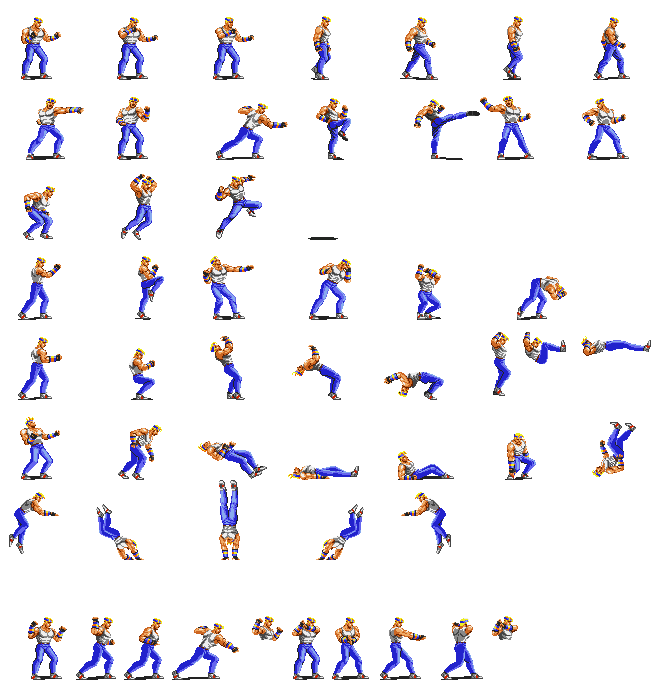
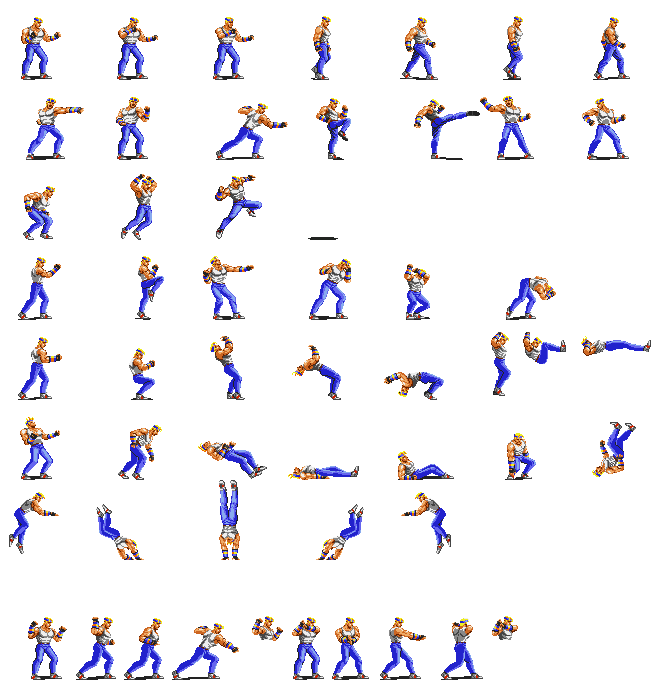
Front throw animation synced and working properly

Changed region(s): [[0.75, 0.3945, 0.8438, 0.4855], [0.5938, 0.3642, 0.6562, 0.4855]]

diff --git a/Entity.cpp b/Entity.cpp
@@ -105,7 +105,6 @@ void Entity::UpdateCurrentAnimation(Animation *new_anim, int block_anim_duration
 		if (current_animation == &jump ||
 			current_animation == &jump_attack ||
 			current_animation == &being_thrown_front ||
-			//current_animation == &being_thrown_back ||
 			current_animation == &being_knocked ||
 			current_animation == &holding_swap)
 			grounded = false;
@@ -166,10 +165,8 @@ void Entity::UpdateCurrentAnimation(Animation *new_anim, int block_anim_duration
 			is_being_hold_front = false;
 
 		// being thrown status 
-		if (current_animation == &being_thrown_back)
-			is_being_thrown_back = true;
-		else
-			is_being_thrown_back = false;
+		is_being_thrown_back = current_animation == &being_thrown_back;
+		is_being_thrown_front = current_animation == &being_thrown_front;
 	}
 }
 
@@ -195,30 +192,47 @@ iPoint Entity::UpdateKnockedMotion()
 
 iPoint Entity::UpdateThrownFrontMotion()
 {
-	return{ 0,0 };
-}
-iPoint Entity::UpdateThrownBackMotion() {
-	
-	int divisor = being_thrown_duration / 7;
-	int frames_left = blocking_animation_remaining_msec / divisor;
 	iPoint ret = { 0,0 };
+	int divisor = being_thrown_duration / 8;
+	int frames_left = air_remaining_msec / divisor;
 
 	int mod = facing_right ? 1 : -1;
 
+	being_thrown_front.SetCurrentFrame(7 - frames_left);
+	
 	switch (frames_left)
 	{
-	case 6: SetPosition({ pivot.x + mod * 16, pivot.y }); being_thrown_back.SetCurrentFrame(0); break;
-	case 5: SetPosition({ pivot.x + mod * 8, pivot.y - 30 });  being_thrown_back.SetCurrentFrame(1); break;
-	case 4: SetPosition({ pivot.x - mod * 16, pivot.y - 26 });  being_thrown_back.SetCurrentFrame(2); break;
-	case 3: SetPosition({ pivot.x - mod * 30, pivot.y });  being_thrown_back.SetCurrentFrame(2); break;
-	case 2: SetPosition({ pivot.x - mod*30, pivot.y});  being_thrown_back.SetCurrentFrame(2); break;
-		
-	case 1: SetPosition({ pivot.x - mod *34, pivot.y -3 });  being_thrown_back.SetCurrentFrame(2); break;
-	case 0: SetPosition({ pivot.x - mod *38, pivot.y });  being_thrown_back.SetCurrentFrame(3); break;
+	case 7: SetPosition({ pivot.x - mod * 14, pivot.y });   break;
+	case 6: SetPosition({ pivot.x + mod * 34, pivot.y - 30 });  break;
+	case 5: ret.x += mod * 5; ret.y = -1;     break;
+	case 4:  ret.x += mod * 4; ret.y += 0;   break;
+	case 3:  ret.x += mod * 4; ret.y += 1; break;
+	case 2:  ret.x += mod * 3; ret.y += 2;  break;
+	case 1:  ret.x += mod * 3; ret.y += 3;  break;
+	case 0:  ret.x += mod * 2; ret.y += 3;  break;
 	}
-	return ret;
 
 	return ret;
+}
+void Entity::UpdateThrownBackMotion() {
+	
+	int divisor = being_thrown_duration / 8;
+	int frames_left = blocking_animation_remaining_msec / divisor;
+
+	int mod = facing_right ? 1 : -1;
+	
+	being_thrown_back.SetCurrentFrame(7 - frames_left);
+	switch (frames_left)
+	{
+	case 7: SetPosition({ pivot.x + mod * 16, pivot.y }); break;
+	case 6: SetPosition({ pivot.x + mod * 8, pivot.y - 30 });   break;
+	case 5: SetPosition({ pivot.x - mod * 0, pivot.y - 22 });  break;	
+	case 4: SetPosition({ pivot.x - mod * 30, pivot.y });   break;
+	case 3: grounded = false; SetPosition({ pivot.x - mod * 40, pivot.y - 3 });  break;
+	case 2: SetPosition({ pivot.x - mod * 50, pivot.y -5});   break;
+	case 1: SetPosition({ pivot.x - mod * 55, pivot.y - 3 }); break;
+	case 0: grounded = true; SetPosition({ pivot.x - mod * 60, pivot.y }); break;
+	}
 }
 // ----------------- Depth related ------------------------
 

diff --git a/Player.cpp b/Player.cpp
@@ -91,7 +91,9 @@ bool Player::Update(unsigned int msec_elapsed, const bool upd_logic)
 	}
 	if (current_animation == &throwing_back)
 		UpdateThrowingBackMotion();
-	
+	if (current_animation == &throwing_front)
+		UpdateThrowingFrontMotion();
+
 	// animation transition
 	if (blocking_animation_remaining_msec <= 0)
 	{
@@ -396,12 +398,21 @@ void Player::UpdateHoldingSwapMotion()
 	case 0: SetPosition({ held_entity->position.x + mod * 24 , held_entity->position.y - 6 }); break;
 	}
 }
-void Player::UpdateThrowingBackMotion()
+
+void Player::UpdateThrowingFrontMotion()
 {
-	int divisor = throwing_duration / 5;
+	int divisor = throwing_duration / 4;
 	int frames_left = blocking_animation_remaining_msec / divisor;
 
-	throwing_back.SetCurrentFrame(4 - frames_left);
+	throwing_front.SetCurrentFrame(3 - frames_left);
+}
+
+void Player::UpdateThrowingBackMotion()
+{
+	int divisor = throwing_duration / 4;
+	int frames_left = blocking_animation_remaining_msec / divisor;
+
+	throwing_back.SetCurrentFrame(3 - frames_left);
 }
 
 //--- Input related -------
@@ -435,6 +446,9 @@ void Player::GetInput( bool upd_logic )
 		(App->input->GetKey(SDL_SCANCODE_X) == KEY_REPEAT && App->input->GetKey(SDL_SCANCODE_C) == KEY_DOWN);
 
 	input_attack = App->input->GetKey(SDL_SCANCODE_X) == KEY_DOWN && input_hold_front_throw == false && input_attack_back == false;
+
+	// to be removed
+	input_hold_front_throw = App->input->GetKey(SDL_SCANCODE_A) == KEY_DOWN;
 	
 	
 	
@@ -561,4 +575,6 @@ void Player::CheatCodes() {
 		SetBeingHit(attack1_dmg);
 	if (App->input->GetKey(SDL_SCANCODE_W) == KEY_DOWN)
 		SetBeingKnocked(attack3_dmg);
+	if (App->input->GetKey(SDL_SCANCODE_S) == KEY_DOWN)
+		UpdateCurrentAnimation(&throwing_front, throwing_duration);
 }

diff --git a/EnemyGarcia.cpp b/EnemyGarcia.cpp
@@ -53,11 +53,14 @@ bool EnemyGarcia::Update(unsigned int msec_elapsed, const bool upd_logic)
 	{
 		if (air_remaining_msec > 0)
 		{
-			move_speed = UpdateKnockedMotion();
+			if (is_being_thrown_front)
+				move_speed = UpdateThrownFrontMotion();
+			else
+				move_speed = UpdateKnockedMotion();
 		}
 	}
 	if(is_being_thrown_back)
-		move_speed = UpdateThrownBackMotion();
+		UpdateThrownBackMotion();
 
 	if (blocking_animation_remaining_msec <= 0)
 	{
@@ -70,11 +73,9 @@ bool EnemyGarcia::Update(unsigned int msec_elapsed, const bool upd_logic)
 	}
 
 	if (unhittable_remaining_msec <= 0 && (current_animation == &being_hit || current_animation == &being_hold_front_hit))
-	{
-		unhittable_remaining_msec = 0;
 		is_hittable = true;
-	}
 
+	// IA starts here
 	if (AllowAnimationInterruption())
 	{
 		if (is_being_hold_front == false && is_being_hold_back == false)

diff --git a/Player.h b/Player.h
@@ -22,6 +22,7 @@ private:
 	void UpdatePosition(const iPoint new_speed);
 	int  UpdateJumpVerticalSpeed();
 	void UpdateHoldingSwapMotion();
+	void UpdateThrowingFrontMotion();
 	void UpdateThrowingBackMotion();
 
 	void GetInput( bool upd_logic);

diff --git a/Entity.h b/Entity.h
@@ -40,7 +40,7 @@ public:
 
 	iPoint UpdateKnockedMotion();
 	iPoint UpdateThrownFrontMotion();
-	iPoint UpdateThrownBackMotion();
+	void UpdateThrownBackMotion();
 
 	bool Draw() const;
 	int  GetDepth() const;
